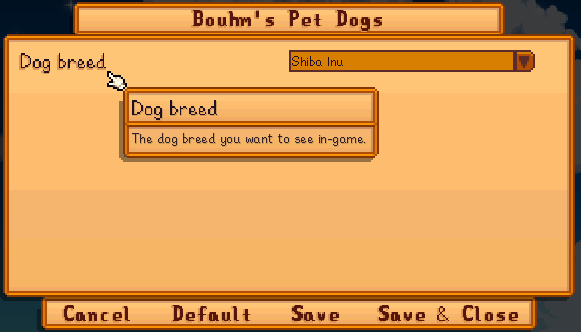
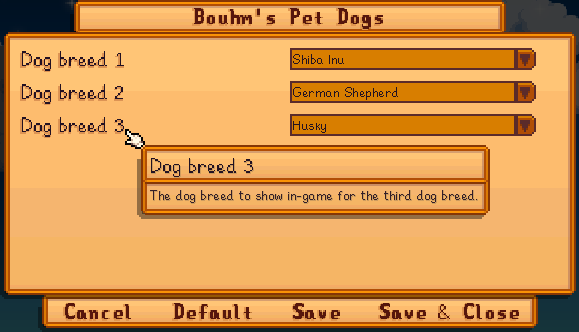
replace the three new dog breeds in Stardew Valley 1.4

diff --git a/PetDogs/docs/README.md b/PetDogs/docs/README.md
@@ -22,9 +22,9 @@ file in a text editor to configure the mod.
 
 Here's what you can change:
 
-setting | default    | what it affects
-:-------| :--------- | :------------------
-`Dog`   | `shibainu` | Which dog breed you want to see in-game. The possible values are `husky`, `shepherd`, or `shibainu`.
+setting  | default    | what it affects
+:------- | :--------- | :------------------
+`Breed1`<br />`Breed2`<br />`Breed3` | `shibainu`<br />`shepherd`</br >`husky` | The dog breed to use for each of the three breed slots. The possible values are `husky`, `shepherd`, `shibainu`, or `none` (to leave the base-game breed unchanged).
 
 ## Compatibility
 Compatible with Stardew Valley 1.4 and 1.5+ on Linux/macOS/Windows, both single-player and

diff --git a/PetDogs/docs/release-notes.md b/PetDogs/docs/release-notes.md
@@ -2,9 +2,13 @@
 
 # Release notes
 ## Upcoming release
+* You can now replace each in-game dog breed through the [config UI](README.md#configure).
 * Added translation file for config UI.
-* Updated to Content Patcher 1.19.0+.
-* Fixed dog portrait not changed.
+* Fixed dog portraits not changed.
+
+**Update note:**  
+If you customized the mod settings, you'll need to [do it again](README.md#configure) since the
+options changed.
 
 ## 1.2.2
 Released 28 November 2018 for Content Patcher 1.3.0 or later.
